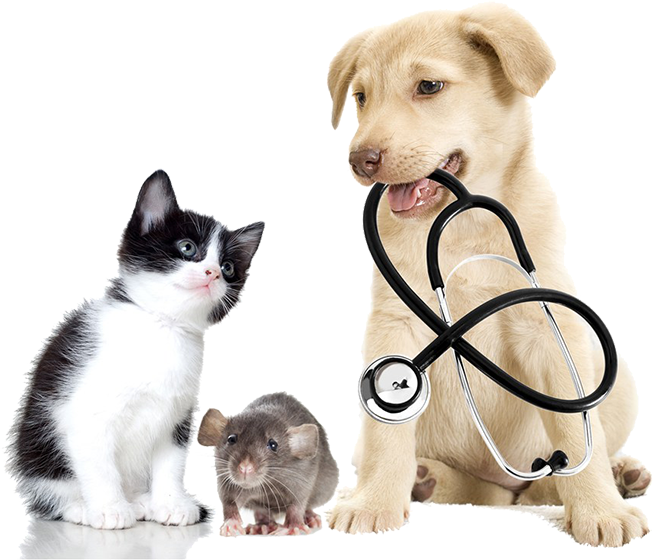
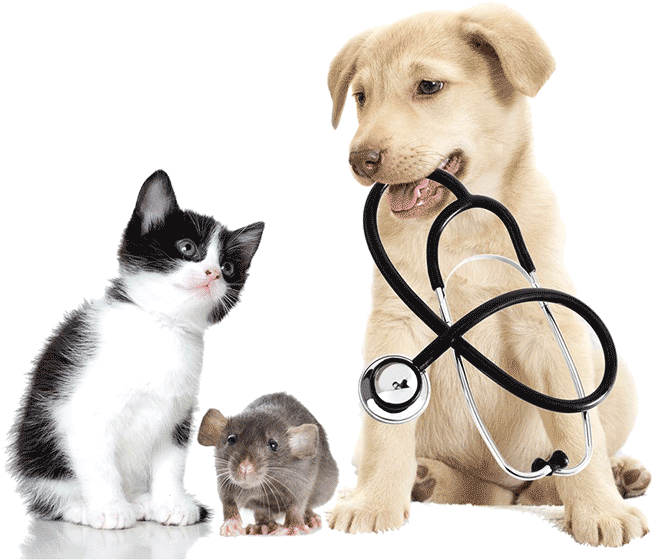
images optimized

diff --git a/website/gallery.html b/website/gallery.html
@@ -66,101 +66,101 @@
       </div>
       <div id="gallerymain">
          <div id="first">
-            <img src="images/gallery1.jpg" alt="catdog" class="myimages" id="one" onclick="zoommyimage('one')" />
+            <img src="images/gallery1.jpeg" alt="catdog" class="myimages" id="one" onclick="zoommyimage('one')" />
             <div class="zoomimage" id="zoomone">
                <span class="close" onclick="closeimage('one')">x</span>
                <div class="imagesize">
-                  <img class="zoomedimg" id="imgone" src="images/gallery1.jpg" alt="catdog"/>
+                  <img class="zoomedimg" id="imgone" src="images/galleryzoom1.jpeg" alt="catdog"/>
                </div>
             </div>
          </div>
          <div id="second">
-            <img src="images/gallery2.jpg" alt="dogswim" class="myimages" id="two" onclick="zoommyimage('two')" />
+            <img src="images/gallery2.jpeg" alt="dogswim" class="myimages" id="two" onclick="zoommyimage('two')" />
             <div class="zoomimage" id="zoomtwo">
                <span class="close" onclick="closeimage('two')">x</span>
                <div class="imagesize">
-                  <img class="zoomedimg" id="imgtwo" src="images/gallery2.jpg" alt="dogswim"/>
+                  <img class="zoomedimg" id="imgtwo" src="images/galleryzoom2.jpeg" alt="dogswim"/>
                </div>
             </div>
          </div>
          <div id="third">
-            <img src="images/gallery3.jpg" alt="vaccination" class="myimages" id="three" onclick="zoommyimage('three')" />
+            <img src="images/gallery3.jpeg" alt="vaccination" class="myimages" id="three" onclick="zoommyimage('three')" />
             <div class="zoomimage" id="zoomthree">
                <span class="close" onclick="closeimage('three')">x</span>
                <div class="imagesize">
-                  <img class="zoomedimg" id="imgthree" src="images/gallery3.jpg" alt="vaccination"/>
+                  <img class="zoomedimg" id="imgthree" src="images/galleryzoom3.jpg" alt="vaccination"/>
                </div>
             </div>
          </div>
          <div class="galleryimg">
-            <img src="images/gallery4.jpg" alt="catdog" class="myimages" id="four" onclick="zoommyimage('four')" />
+            <img src="images/gallery4.jpeg" alt="catdog" class="myimages" id="four" onclick="zoommyimage('four')" />
             <div class="zoomimage" id="zoomfour">
                <span class="close" onclick="closeimage('four')">x</span>
                <div class="imagesize">
-                  <img class="zoomedimg" id="imgfour" src="images/gallery4.jpg" alt="catdog"/>
+                  <img class="zoomedimg" id="imgfour" src="images/galleryzoom4.jpeg" alt="catdog"/>
                </div>
             </div>
          </div>
          <div class="galleryimg">
-            <img src="images/gallery5.jpg" alt="food" class="myimages" id="five" onclick="zoommyimage('five')" />
+            <img src="images/gallery5.jpeg" alt="food" class="myimages" id="five" onclick="zoommyimage('five')" />
             <div class="zoomimage" id="zoomfive">
                <span class="close" onclick="closeimage('five')">x</span>
                <div class="imagesize">
-                  <img class="zoomedimg" id="imgfive" src="images/gallery5.jpg" alt="food"/>
+                  <img class="zoomedimg" id="imgfive" src="images/galleryzoom5.jpeg" alt="food"/>
                </div>
             </div>
          </div>
          <div class="galleryimg">
-            <img src="images/gallery6.jpg" alt="food" class="myimages" id="6" onclick="zoommyimage('6')" />
+            <img src="images/gallery6.jpeg" alt="food" class="myimages" id="6" onclick="zoommyimage('6')" />
             <div class="zoomimage" id="zoom6">
                <span class="close" onclick="closeimage('6')">x</span>
                <div class="imagesize">
-                  <img class="zoomedimg" id="img6" src="images/gallery6.jpg" alt="food"/>
+                  <img class="zoomedimg" id="img6" src="images/galleryzoom6.jpg" alt="food"/>
                </div>
             </div>
          </div>
          <div class="galleryimg">
-            <img src="images/gallery7.jpg" alt="groom" class="myimages" id="7" onclick="zoommyimage('7')" />
+            <img src="images/gallery7.jpeg" alt="groom" class="myimages" id="7" onclick="zoommyimage('7')" />
             <div class="zoomimage" id="zoom7">
                <span class="close" onclick="closeimage('7')">x</span>
                <div class="imagesize">
-                  <img class="zoomedimg" id="img7" src="images/gallery7.jpg" alt="groom"/>
+                  <img class="zoomedimg" id="img7" src="images/galleryzoom7.jpeg" alt="groom"/>
                </div>
             </div>
          </div>
          <div class="galleryimg">
-            <img src="images/gallery8.jpg"  alt="shower" class="myimages" id="8" onclick="zoommyimage('8')" />
+            <img src="images/gallery8.jpeg"  alt="shower" class="myimages" id="8" onclick="zoommyimage('8')" />
             <div class="zoomimage" id="zoom8">
                <span class="close" onclick="closeimage('8')">x</span>
                <div class="imagesize">
-                  <img class="zoomedimg" id="img8" src="images/gallery8.jpg" alt="shower" />
+                  <img class="zoomedimg" id="img8" src="images/galleryzoom8.jpeg" alt="shower" />
                </div>
             </div>
          </div>
          <div class="galleryimg">
-            <img src="images/gallery9.jpg" alt="play" class="myimages" id="9" onclick="zoommyimage('9')" />
+            <img src="images/gallery9.jpeg" alt="play" class="myimages" id="9" onclick="zoommyimage('9')" />
             <div class="zoomimage" id="zoom9">
                <span class="close" onclick="closeimage('9')">x</span>
                <div class="imagesize">
-                  <img class="zoomedimg" id="img9" src="images/gallery9.jpg" alt="play" />
+                  <img class="zoomedimg" id="img9" src="images/galleryzoom9.jpeg" alt="play" />
                </div>
             </div>
          </div>
          <div class="galleryimg">
-            <img src="images/gallery10.jpg" alt="volunteer" class="myimages" id="ten" onclick="zoommyimage('ten')" />
+            <img src="images/gallery10.jpeg" alt="volunteer" class="myimages" id="ten" onclick="zoommyimage('ten')" />
             <div class="zoomimage" id="zoomten">
                <span class="close" onclick="closeimage('ten')">x</span>
                <div class="imagesize">
-                  <img class="zoomedimg" id="imgten" src="images/gallery10.jpg" alt="volunteer" />
+                  <img class="zoomedimg" id="imgten" src="images/galleryzoom10.jpeg" alt="volunteer" />
                </div>
             </div>
          </div>
          <div class="galleryimg">
-            <img src="images/train2.jpg" alt="train" class="myimages" id="eleven" onclick="zoommyimage('eleven')" />
+            <img src="images/gallery11.jpeg" alt="train" class="myimages" id="eleven" onclick="zoommyimage('eleven')" />
             <div class="zoomimage" id="zoomeleven">
                <span class="close" onclick="closeimage('eleven')">x</span>
                <div class="imagesize">
-                  <img class="zoomedimg" id="imgeleven" src="images/train2.jpg" alt="train" />
+                  <img class="zoomedimg" id="imgeleven" src="images/galleryzoom11.jpeg" alt="train" />
                </div>
             </div>
          </div>

diff --git a/website/css/styles.css b/website/css/styles.css
@@ -669,18 +669,23 @@ figcaption{
 }
 #gallerymain{
 	margin-top: 25vh;
+	justify-items: stretch;
+	align-items: stretch;
 }
 #first{
 	grid-row: 1/3;
 	grid-column: 1/4;
+	height: 100%;
 }
 #second{
 	grid-row: 1/2;
 	grid-column: 4/5;
+	height: 100%;
 }
 #third{
 	grid-row: 2/3;
 	grid-column: 4/5;
+	height: 100%;
 }
 
 #gallerymain .myimages:hover{
